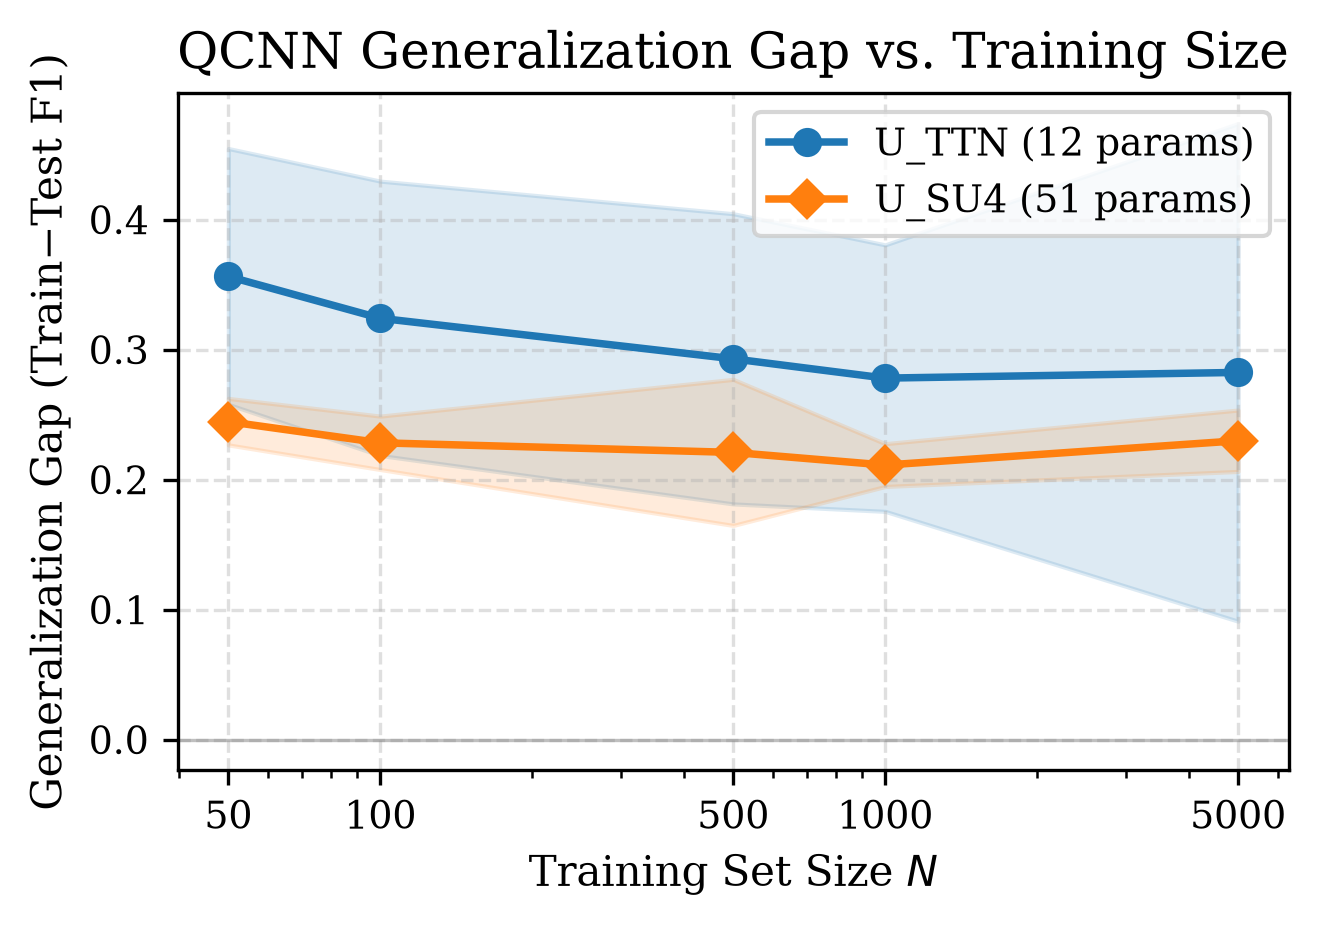
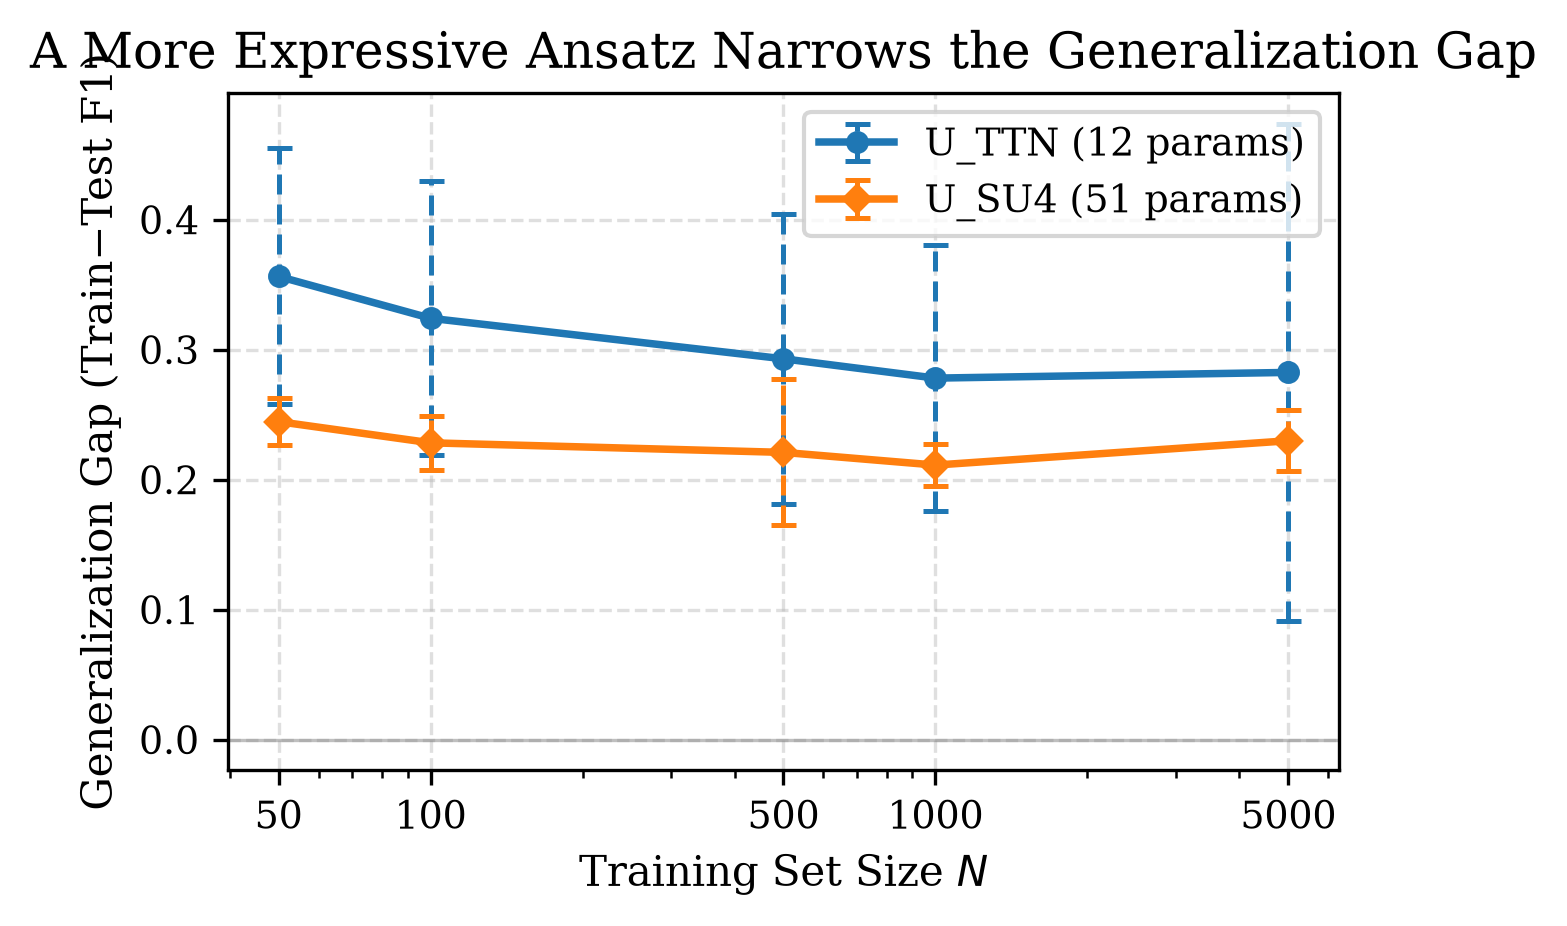
Cut duplicate figure variants (8 -> 5), rewrite titles for a first-time reader
Removed the shaded-band versions of Fig 1/2 (kept only the clearer dashed
error-bar versions) and an orphaned fig3_ansatz_comparison_errorbar.png
that gen_figures.py no longer generates. Renamed the survivors to drop
the now-meaningless '_errorbar' suffix.

Retitled all 5 remaining figures to state the actual finding instead of
just describing the axes (e.g. 'Data Efficiency on NSL-KDD' ->
'QCNN Underperforms Classical Baselines on NSL-KDD'), and added a
suptitle to Fig 3, which previously had two subplot titles but nothing
tying them together.

diff --git a/gen_figures.py b/gen_figures.py
@@ -113,31 +113,6 @@ def errorbar_dashed(ax, x, y, yerr, color, marker, linestyle, label, markersize=
 # ============================================================
 # Figure 1 — F1 vs N
 # ============================================================
-
-# --- (A) 원본: 음영(mean±std band) 버전. 그대로 보존. ---
-fig, ax = plt.subplots(figsize=(4.5, 3.2))
-for m, sty in MODEL_STYLE.items():
-    f1_agg = agg(data, m, 'f1')
-    Ns = np.array(sorted(f1_agg.keys()))
-    mu = np.array([f1_agg[n][0] for n in Ns])
-    sd = np.array([f1_agg[n][1] for n in Ns])
-    ax.plot(Ns, mu, **sty)
-    ax.fill_between(Ns, mu - sd, mu + sd, alpha=0.15, color=sty['color'])
-ax.set_xscale('log')
-ax.set_xticks(N_values)
-ax.get_xaxis().set_major_formatter(ticker.ScalarFormatter())
-ax.set_xlabel('Training Set Size $N$')
-ax.set_ylabel('F1 Score')
-ax.set_title('Data Efficiency on NSL-KDD (Binary Classification)')
-ax.legend(loc='lower right')
-ax.set_ylim(0, 1.02)
-ax.grid(True, which='major', linestyle='--', alpha=0.4)
-plt.tight_layout()
-plt.savefig(os.path.join(FIGURES_DIR, 'fig1_f1.png'), dpi=300, bbox_inches='tight')
-plt.close()
-print('Saved: fig1_f1.png (음영 버전, 원본 유지)')
-
-# --- (B) 대안: 점선 오차막대 버전. 지터 없이 정확한 N에 표시. 교수님 확인용 별도 파일. ---
 fig, ax = plt.subplots(figsize=(4.5, 3.2))
 for m, sty in MODEL_STYLE.items():
     f1_agg = agg(data, m, 'f1')
@@ -151,14 +126,14 @@ ax.set_xticks(N_values)
 ax.get_xaxis().set_major_formatter(ticker.ScalarFormatter())
 ax.set_xlabel('Training Set Size $N$')
 ax.set_ylabel('F1 Score')
-ax.set_title('Data Efficiency on NSL-KDD (Binary Classification)')
+ax.set_title('QCNN Underperforms Classical Baselines on NSL-KDD')
 ax.legend(loc='lower right')
 ax.set_ylim(0, 1.02)
 ax.grid(True, which='major', linestyle='--', alpha=0.4)
 plt.tight_layout()
-plt.savefig(os.path.join(FIGURES_DIR, 'fig1_f1_errorbar.png'), dpi=300, bbox_inches='tight')
+plt.savefig(os.path.join(FIGURES_DIR, 'fig1_f1.png'), dpi=300, bbox_inches='tight')
 plt.close()
-print('Saved: fig1_f1_errorbar.png (점선 오차막대 버전, 신규 — 컨펌용)')
+print('Saved: fig1_f1.png')
 
 # ============================================================
 # Figure 2 — Generalization Gap vs N
@@ -178,27 +153,6 @@ Ns = np.array(sorted(gap_ttn.keys()))
 mu_t = np.array([gap_ttn[n][0] for n in Ns]); sd_t = np.array([gap_ttn[n][1] for n in Ns])
 mu_s = np.array([gap_su4[n][0] for n in Ns]); sd_s = np.array([gap_su4[n][1] for n in Ns])
 
-# --- (A) 원본: 음영 버전 ---
-fig, ax = plt.subplots(figsize=(4.5, 3.2))
-ax.plot(Ns, mu_t, color='#1f77b4', marker='o', linestyle='-', label='U_TTN (12 params)')
-ax.fill_between(Ns, mu_t - sd_t, mu_t + sd_t, alpha=0.15, color='#1f77b4')
-ax.plot(Ns, mu_s, color='#ff7f0e', marker='D', linestyle='-', label='U_SU4 (51 params)')
-ax.fill_between(Ns, mu_s - sd_s, mu_s + sd_s, alpha=0.15, color='#ff7f0e')
-ax.axhline(0, color='gray', linestyle='-', linewidth=0.8, alpha=0.5)
-ax.set_xscale('log')
-ax.set_xticks(N_values)
-ax.get_xaxis().set_major_formatter(ticker.ScalarFormatter())
-ax.set_xlabel('Training Set Size $N$')
-ax.set_ylabel('Generalization Gap (Train$-$Test F1)')
-ax.set_title('QCNN Generalization Gap vs. Training Size')
-ax.legend(loc='upper right')
-ax.grid(True, which='major', linestyle='--', alpha=0.4)
-plt.tight_layout()
-plt.savefig(os.path.join(FIGURES_DIR, 'fig2_gen_gap.png'), dpi=300, bbox_inches='tight')
-plt.close()
-print('Saved: fig2_gen_gap.png (음영 버전, U_TTN+U_SU4 갱신)')
-
-# --- (B) 대안: 점선 오차막대 버전 ---
 fig, ax = plt.subplots(figsize=(4.5, 3.2))
 errorbar_dashed(ax, Ns, mu_t, sd_t, '#1f77b4', 'o', '-', 'U_TTN (12 params)', markersize=4.5)
 errorbar_dashed(ax, Ns, mu_s, sd_s, '#ff7f0e', 'D', '-', 'U_SU4 (51 params)', markersize=4.5)
@@ -208,13 +162,13 @@ ax.set_xticks(N_values)
 ax.get_xaxis().set_major_formatter(ticker.ScalarFormatter())
 ax.set_xlabel('Training Set Size $N$')
 ax.set_ylabel('Generalization Gap (Train$-$Test F1)')
-ax.set_title('QCNN Generalization Gap vs. Training Size')
+ax.set_title('A More Expressive Ansatz Narrows the Generalization Gap')
 ax.legend(loc='upper right')
 ax.grid(True, which='major', linestyle='--', alpha=0.4)
 plt.tight_layout()
-plt.savefig(os.path.join(FIGURES_DIR, 'fig2_gen_gap_errorbar.png'), dpi=300, bbox_inches='tight')
+plt.savefig(os.path.join(FIGURES_DIR, 'fig2_gen_gap.png'), dpi=300, bbox_inches='tight')
 plt.close()
-print('Saved: fig2_gen_gap_errorbar.png (점선 오차막대 버전, U_TTN+U_SU4 갱신)')
+print('Saved: fig2_gen_gap.png')
 
 # ============================================================
 # Figure 3 — Ansatz comparison: full five-ansatz sweep (NSL-KDD)
@@ -253,6 +207,7 @@ ax2.set_xlabel('Training Set Size $N$'); ax2.set_ylabel('F1 Std. Dev. (run-to-ru
 ax2.set_title('(b) Run-to-Run Variance'); ax2.legend(loc='upper right', fontsize=6, ncol=2)
 ax2.set_ylim(0, None); ax2.grid(True, which='major', linestyle='--', alpha=0.4)
 
+fig.suptitle('A More Expressive Ansatz Is Both More Accurate and More Stable (NSL-KDD)', y=1.04)
 plt.tight_layout()
 plt.savefig(os.path.join(FIGURES_DIR, 'fig3_ansatz_comparison.png'), dpi=300, bbox_inches='tight')
 plt.close()
@@ -290,7 +245,7 @@ for ax, (ds_name, ansatz_data) in zip(axes, DATASET_ANSATZ_DATA.items()):
     ax.set_ylim(0, 1.02); ax.grid(True, which='major', linestyle='--', alpha=0.4)
 axes[0].set_ylabel('Test F1')
 axes[0].legend(loc='lower right', fontsize=6.5)
-fig.suptitle('Cross-Dataset QCNN–Classical Gap (N ≤ 5,000)', y=1.03)
+fig.suptitle('QCNN vs. Classical Baselines: the Gap Size Depends on the Dataset (N ≤ 5,000)', y=1.03)
 plt.tight_layout()
 plt.savefig(os.path.join(FIGURES_DIR, 'fig4_cross_dataset.png'), dpi=300, bbox_inches='tight')
 plt.close()
@@ -364,7 +319,7 @@ axes[0].set_ylabel('Test F1')
 axes[0].text(17534, 0.04, 'N=17,534\n(Gong et al. [9])', fontsize=6, ha='right', va='bottom', color='gray')
 handles, labels = axes[0].get_legend_handles_labels()
 fig.legend(handles, labels, loc='lower center', ncol=4, fontsize=7.5, bbox_to_anchor=(0.5, -0.06), frameon=False)
-fig.suptitle('Large-$N$ Extension: Gap-Closing Is Dataset-Dependent', y=1.04)
+fig.suptitle('Does More Training Data Close the Gap? Only on Some Datasets', y=1.04)
 plt.tight_layout()
 plt.savefig(os.path.join(FIGURES_DIR, 'fig5_largeN.png'), dpi=300, bbox_inches='tight')
 plt.close()
